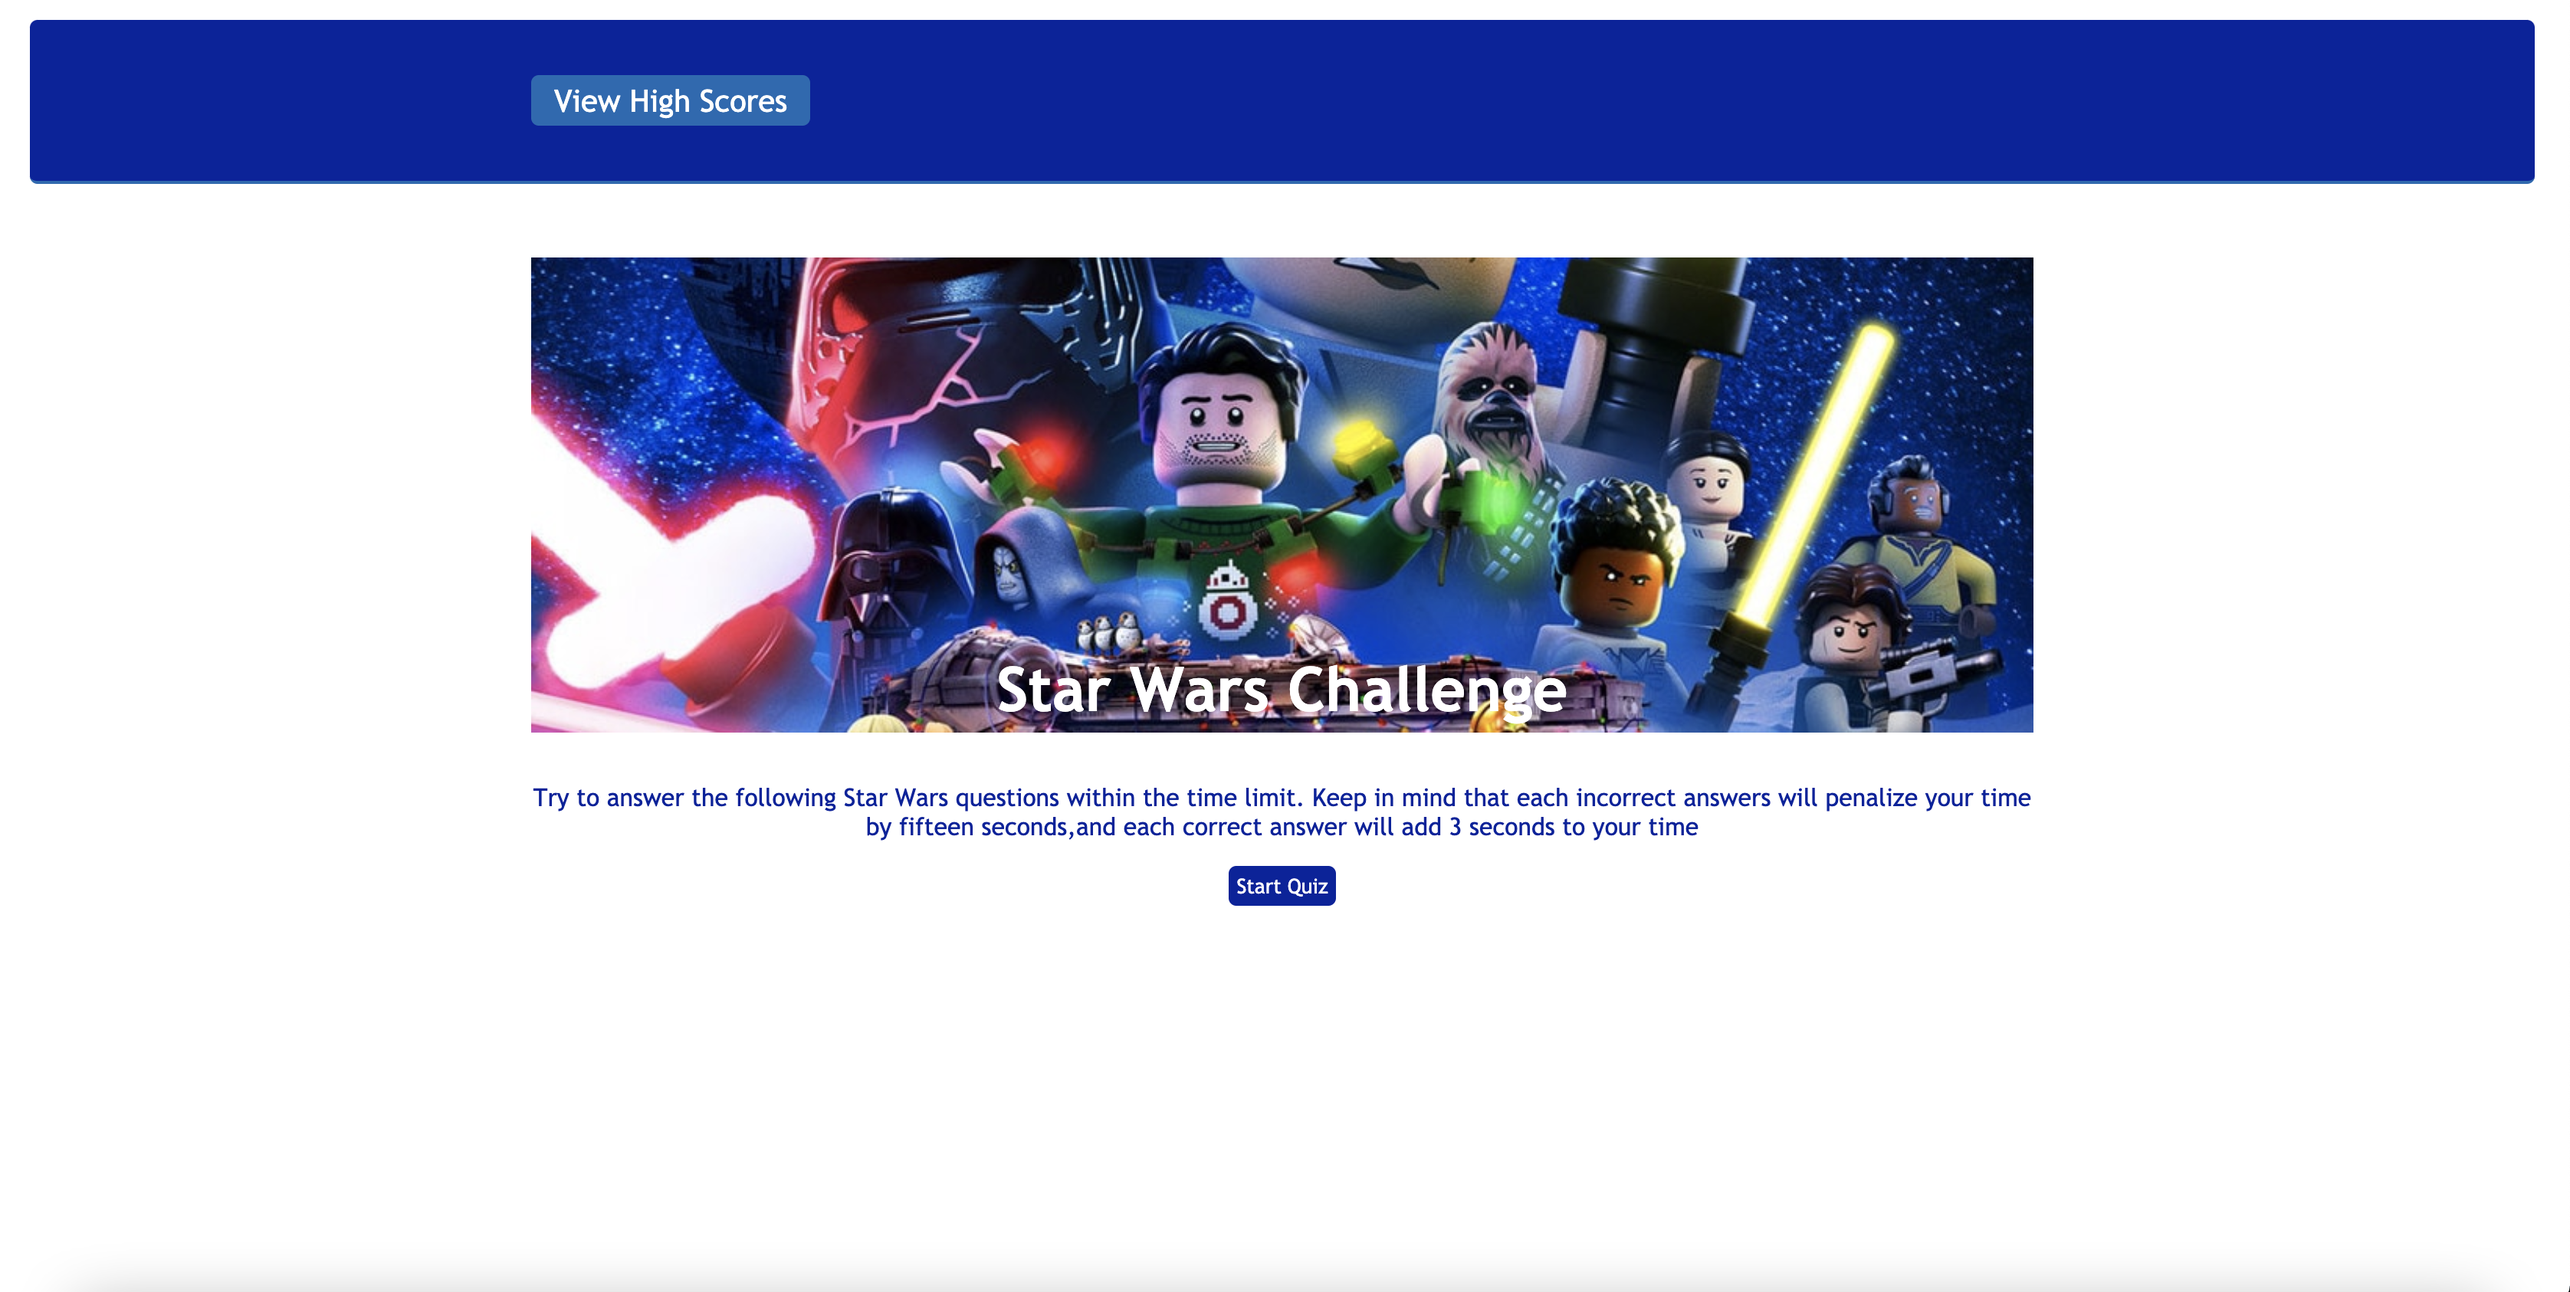
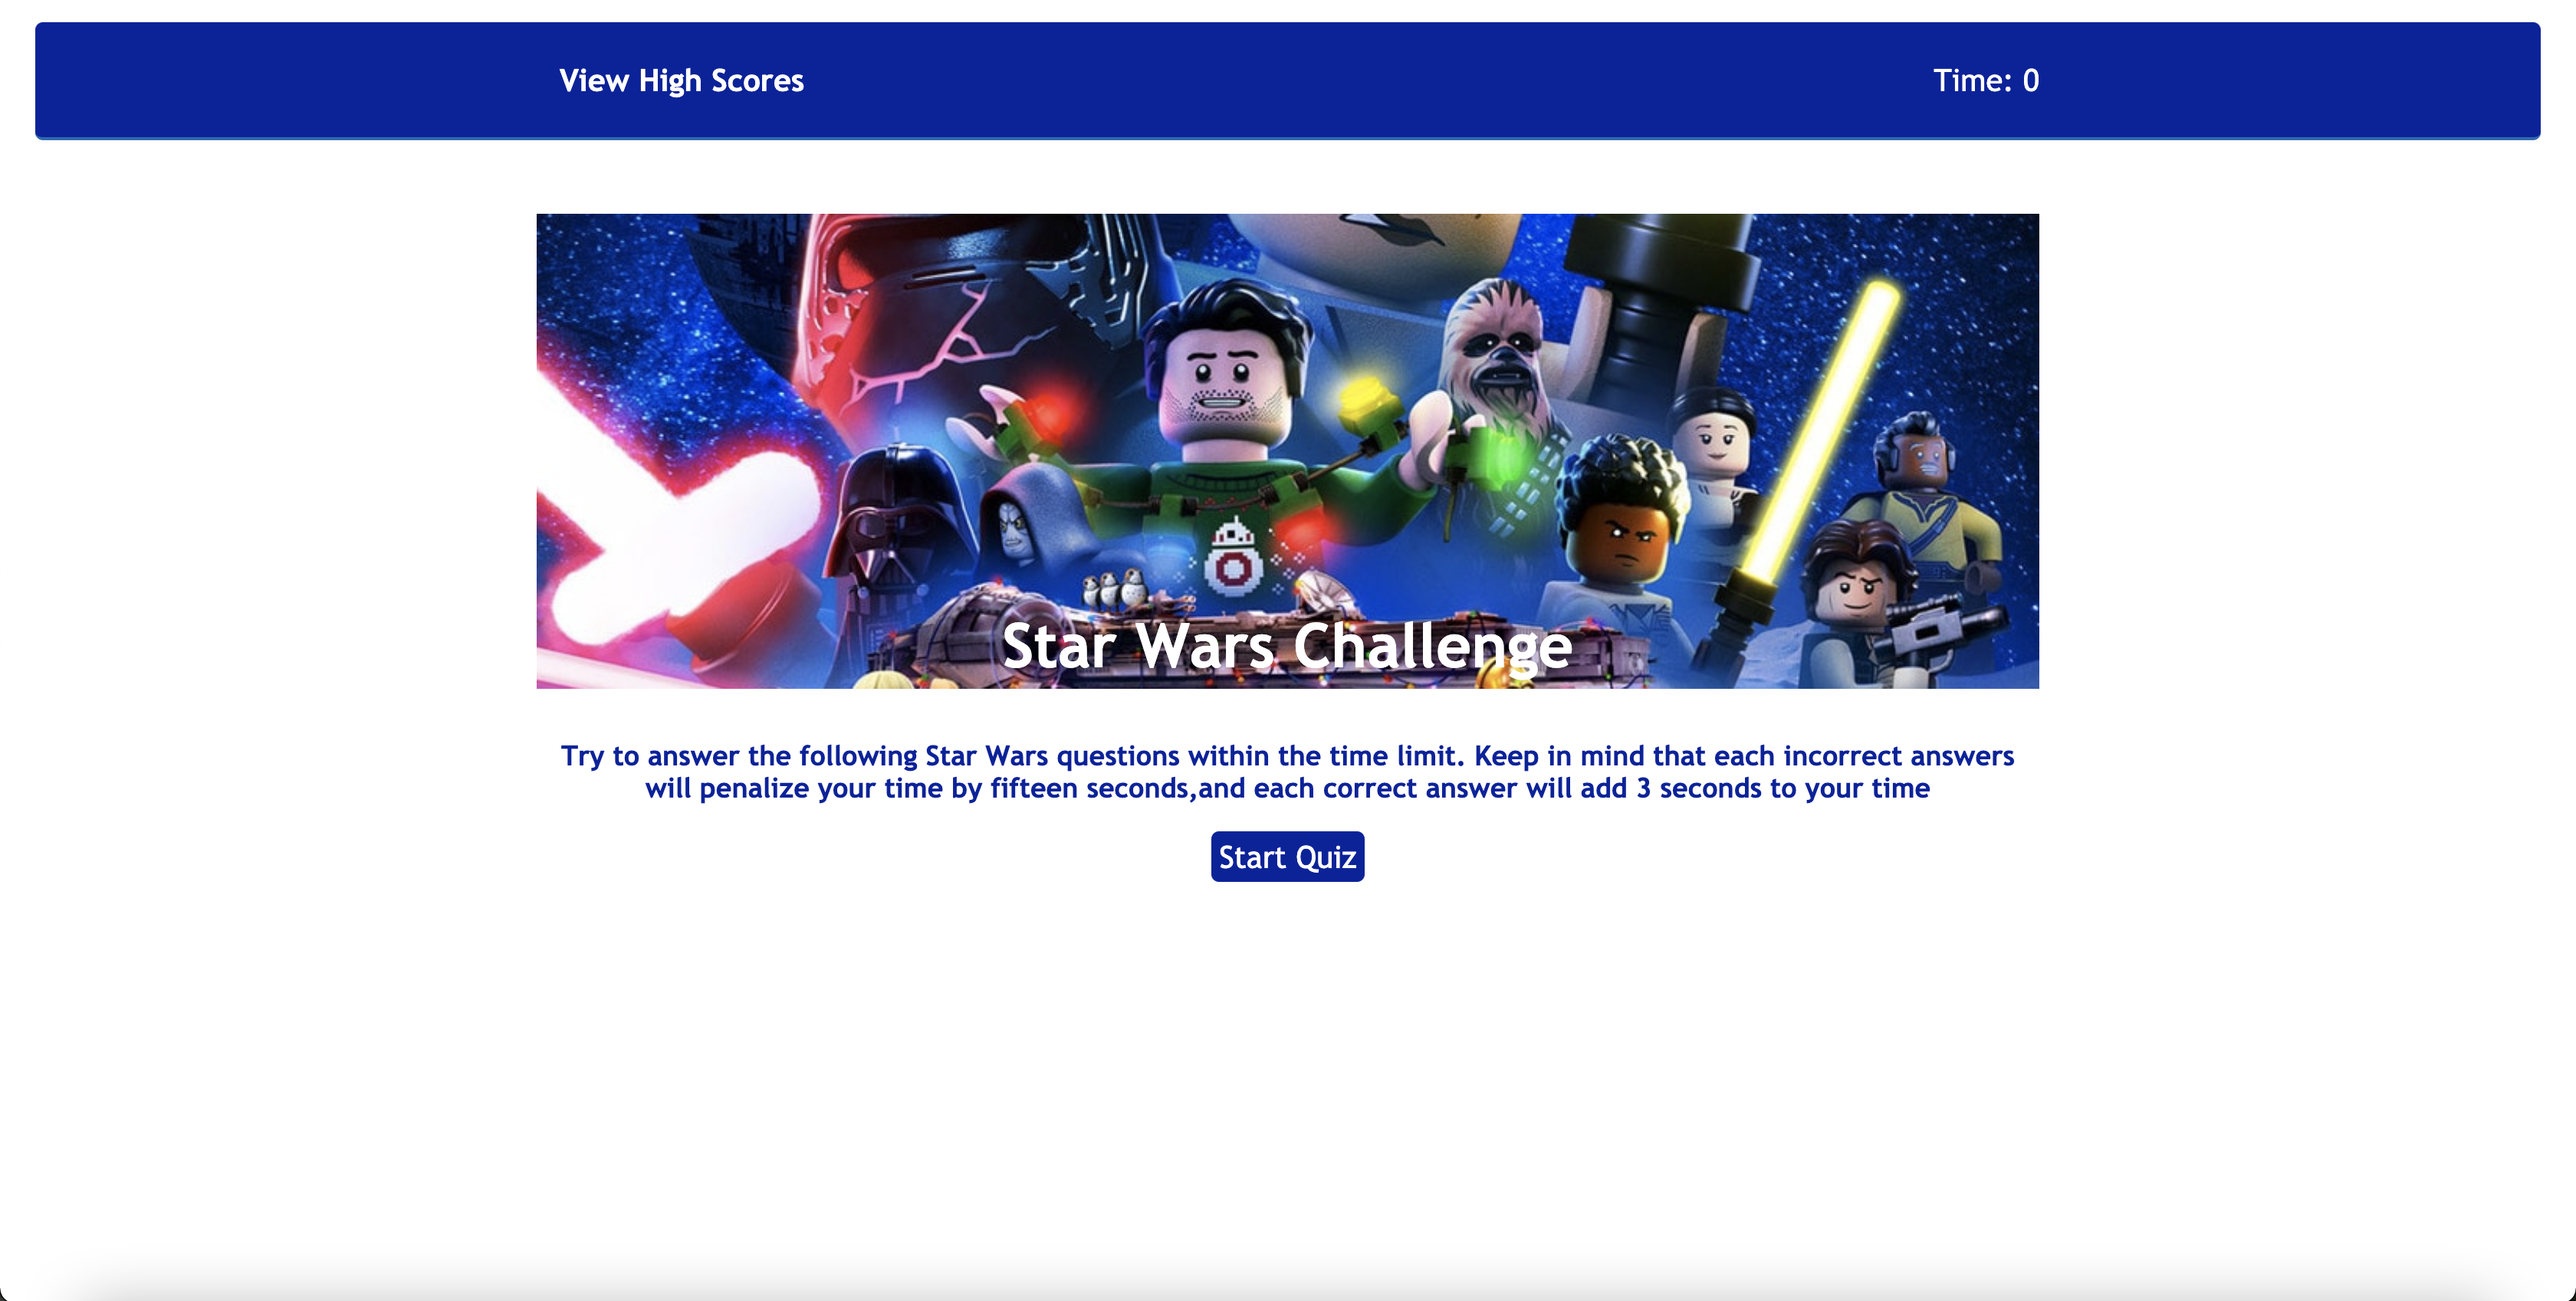
Final commit
Final Commit _ CSS Finished

Changed region(s): [[0.0, 0.0308, 0.9925, 0.7094], [0.9925, 0.987, 1.0, 1.0]]

diff --git a/index.html b/index.html
@@ -4,6 +4,7 @@
         <meta charset="UTF-8">
         <meta name="viewport" content="width=device-width, initial-scale=1.0">
         <meta http-equiv="X-UA-Compatible" content="ie=edge">
+        <link rel="icon" href="./assets/images/background4.jpeg" />
         <title>Star Wars Quiz</title>
         <link rel="stylesheet" href="./assets/css/style.css">
     </head>
@@ -12,33 +13,24 @@
         <header>
             <div id="info">
                 <button id="scores">View High Scores</button>
-                <div id="timer">
-                    <p>Time: <span id="time">0</span></p>
+                <div id="timer">Time: <span id="time">0</span>
+                 <!--<h2>Time: <span id="time">0</span></h2>-->   
                 </div>
             </div>
         </header>
-        <!-- <div id="controls">
-            <div id="info">
-              <button id="scores" href="">View High Scores</button>
-              <div id="timer"><p>Time: <span id="time">0</span></p></div>
-            </div>
-          </div>
-             -->
-        <main id="page-content">
     
+        <main id="page-content">
             <div id="positionWrapper">
                 <section id="intro">
                     <h1>Star Wars Challenge</h1>
-                    <p>Try to answer the following Star Wars questions within the time limit.
+                    <h3>Try to answer the following Star Wars questions within the time limit.
                         Keep in mind that each incorrect answers will penalize your time by fifteen seconds,and each correct answer will add 3 seconds to your time
-                    </p>
+                    </h3>
                     <button id="start-btn">Start Quiz</button>
-    
                 </section>
     
                 <section id="quizHolder" class="hide">
                     <div id="questionHolder">
-                        
                     </div>
                     <div id="scoreIndicator" class="invisible">
                         <p>&nbsp;</p>
@@ -46,7 +38,7 @@
                 </section>
     
                 <section id="finish" class="hide">
-                    <h1>Quiz Finished</h1>
+                    <h2>Quiz Finished</h2>
                     <p>Your final score is&nbsp;<span id="score"></span></p>
                     <div id="records">
                         <p>Enter initials: </p><input id="initials" type="text"> <button>Submit</button>
@@ -57,7 +49,7 @@
                 </section>
     
                 <section id="highScores" class="hide">
-                    <h1>High Scores</h1>
+                    <h4>High Scores</h4>
                     <div id="highScoreHolder">
     
                     </div>

diff --git a/assets/css/style.css b/assets/css/style.css
@@ -7,7 +7,6 @@
   --font-primary: 'Trebuchet MS', 'Lucida Sans Unicode', 'Lucida Grande', 'Lucida Sans', Arial, sans-serif;
 }
 
-
 html,body{
     font-family: var(--font-primary);
     height:100%;
@@ -48,7 +47,6 @@ header {
   margin:5px 0;
 }
   
-/* Section Specific Styles */
 #positionWrapper{
   display: flex;
   flex-direction: column;
@@ -80,18 +78,19 @@ section{
   left:40px;
   font-size: 20px;
   padding: 5px 15px;
-  background-color: var(--quaternary-color);
+  background-color: var(--primary-color);
   color: var(--secondary-color);
-  border-radius: 5px;
+  font-weight: bold;
 }
 
 #scores:hover{
   left:40px;
   font-size: 20px;
   padding: 5px 15px;
-  background-color: var(--primary-color);
-  color: var(--secondary-color);
+  background-color: var(--secondary-color);
+  color: var(--primary-color);
   border-radius: 5px;
+  font-weight: bold;
 }
   
 #timer{
@@ -118,14 +117,16 @@ h1{
 }
 
 h2{
+  background-image: url(../images/background2.jpeg);
   background-size: cover;
   display: flex;
   justify-content: flex-end;
   align-items: flex-end;
   background-position: center;
+  height: 300px;
   color: var(--secondary-color);  
   font-weight: bold;
-  font-size: 24px;
+  font-size: 40px;
   padding: 5px 20px;
   display: flex;
   flex-wrap: wrap;
@@ -139,17 +140,31 @@ h3{
   font-size: 18px;
   font-family: var(--font-primary);
 }
+
 h4{
-  color: var(--primary-color); 
+  background-image: url(../images/background1.jpeg);
+  background-size: cover;
+  display: flex;
+  justify-content: flex-end;
+  align-items: flex-end;
+  background-position: center;
+  height: 300px;
+  width: 400;
+  color: var(--secondary-color);  
   font-weight: bold;
   font-size: 40px;
+  padding: 5px 20px;
+  display: flex;
+  flex-wrap: wrap;
+  justify-content: space-around;
   font-family: var(--font-primary);
 }
 
 p{
-  text-align:center;
+  text-align:left;
   color: var(--primary-color);
   font-family: var(--font-primary);
+  font-size: 20px;
 }
 
 #intro{
@@ -167,10 +182,18 @@ button{
   border-radius: 5px;
   cursor:pointer;
   font-family: var(--font-primary);
+  font-size: 20px;
 }
   
 #intro button:hover{
-  background-color: var(--tertiary-color);
+  background-color: var(--secondary-color);
+  color: var(--primary-color);
+  border: none;
+  padding:5px;
+  border-radius: 5px;
+  cursor:pointer;
+  font-family: var(--font-primary);
+  font-size: 20px;
 }
    
 #quizHolder #title{
@@ -198,7 +221,7 @@ button{
   color: var(--primary-color);
   font-size: 1.3em;
   margin: 0;
-  font-style: italic;
+  font-style: bold;
   font-weight:700;
   margin: 10px auto;
 }

diff --git a/assets/js/script.js b/assets/js/script.js
@@ -25,7 +25,7 @@ var questions = [{
     answer: "He lost his right arm"
   },
   {
-    title: "Who played the part of Commander Cody??",
+    title: "Who played the part of Commander Cody?",
     choices: ["Jay Laga'aia", "Temuera Morrison", "Ahmed Best", "Joel Edgerton"],
     answer: "Temuera Morrison"
   },
@@ -35,7 +35,7 @@ var questions = [{
     answer: "Princess Leia"
   },
   {
-    title: "Who wiped out all of the information about Kamino from the Jedi Temple archives",
+    title: "Who wiped out all of the information about Kamino from the Jedi Temple archives?",
     choices: ["Darth Sidious", "Sifo-Dyas", "Count Dooku", "Yoda"],
     answer: "Count Dooku"
   },
@@ -45,7 +45,7 @@ var questions = [{
     answer: "His faith in his friends"
   },
   {
-    title: "Where did the Clone Wars begin??",
+    title: "Where did the Clone Wars begin?",
     choices: ["Tatooine", "Geonosis", "Naboo", "Coruscant"],
     answer: "Geonosis"
 },

diff --git a/README.md b/README.md
@@ -24,12 +24,12 @@ Here's how it works:
 
 ## Mock-Up
 
-(./assets/images/starwars-quiz.png)
+![website preview](./assets/images/starwars-quiz.png)
 
 
 ## Link to Deployed Application
 
-https://jorgeebn16.github.io/02-Advanced-CSS-Challenge/
+https://https://jorgeebn16.github.io/4-Web-APIs-Challenge/
 
 ## Contributions
 Made with ❤ by Jorge Navarro
